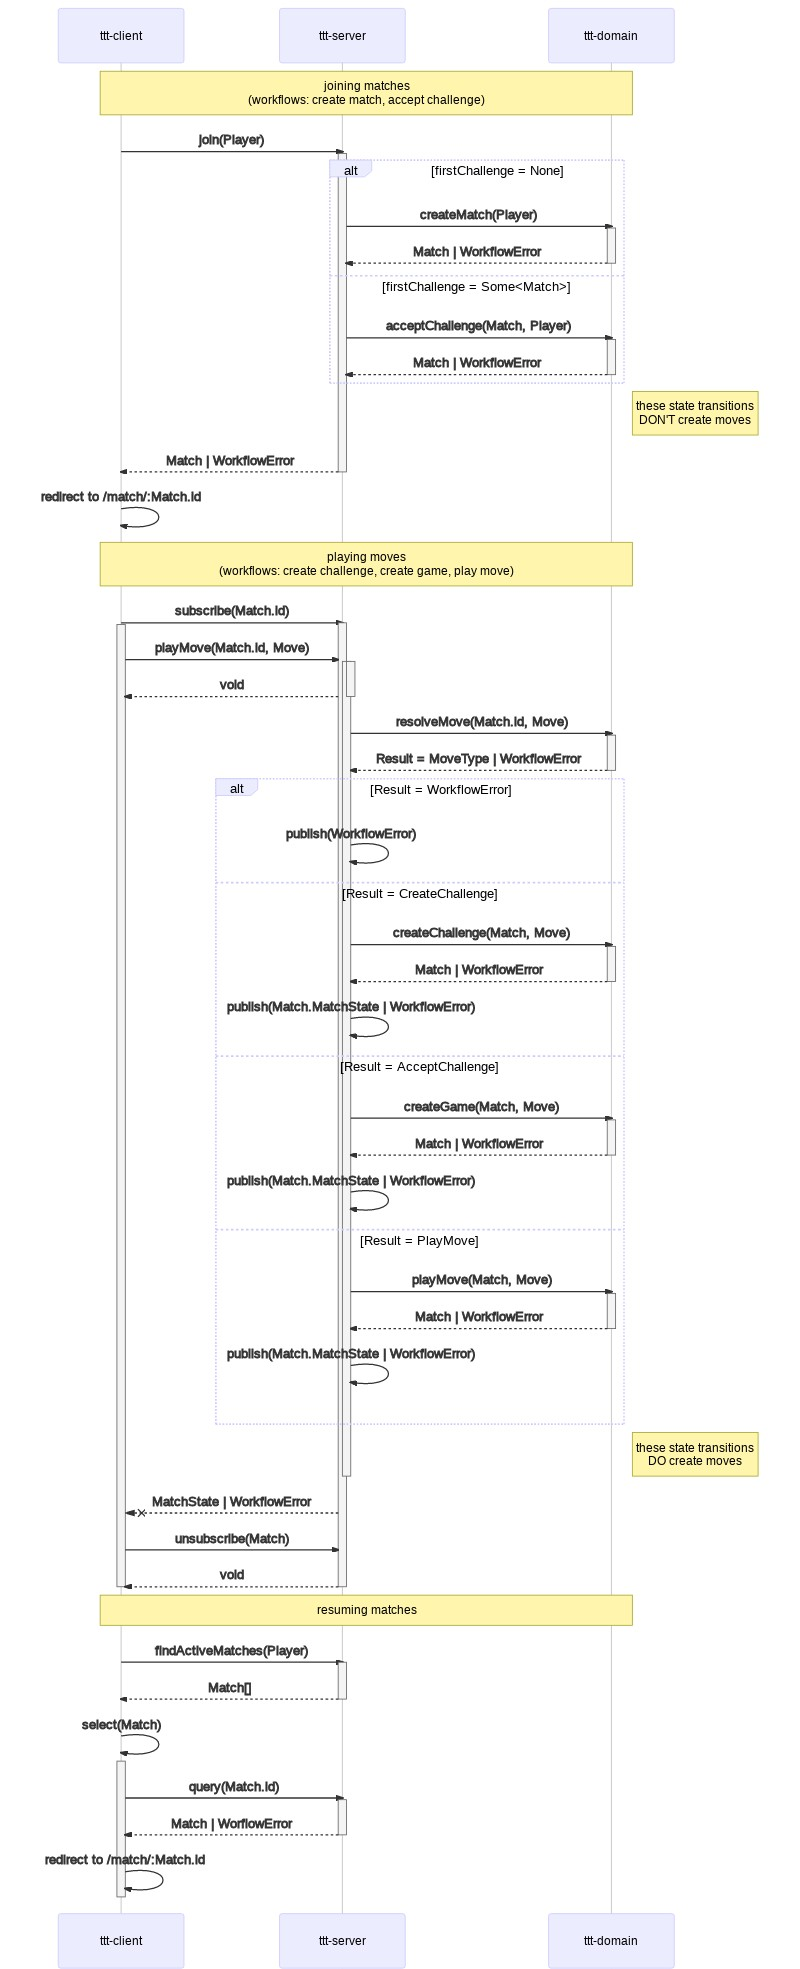
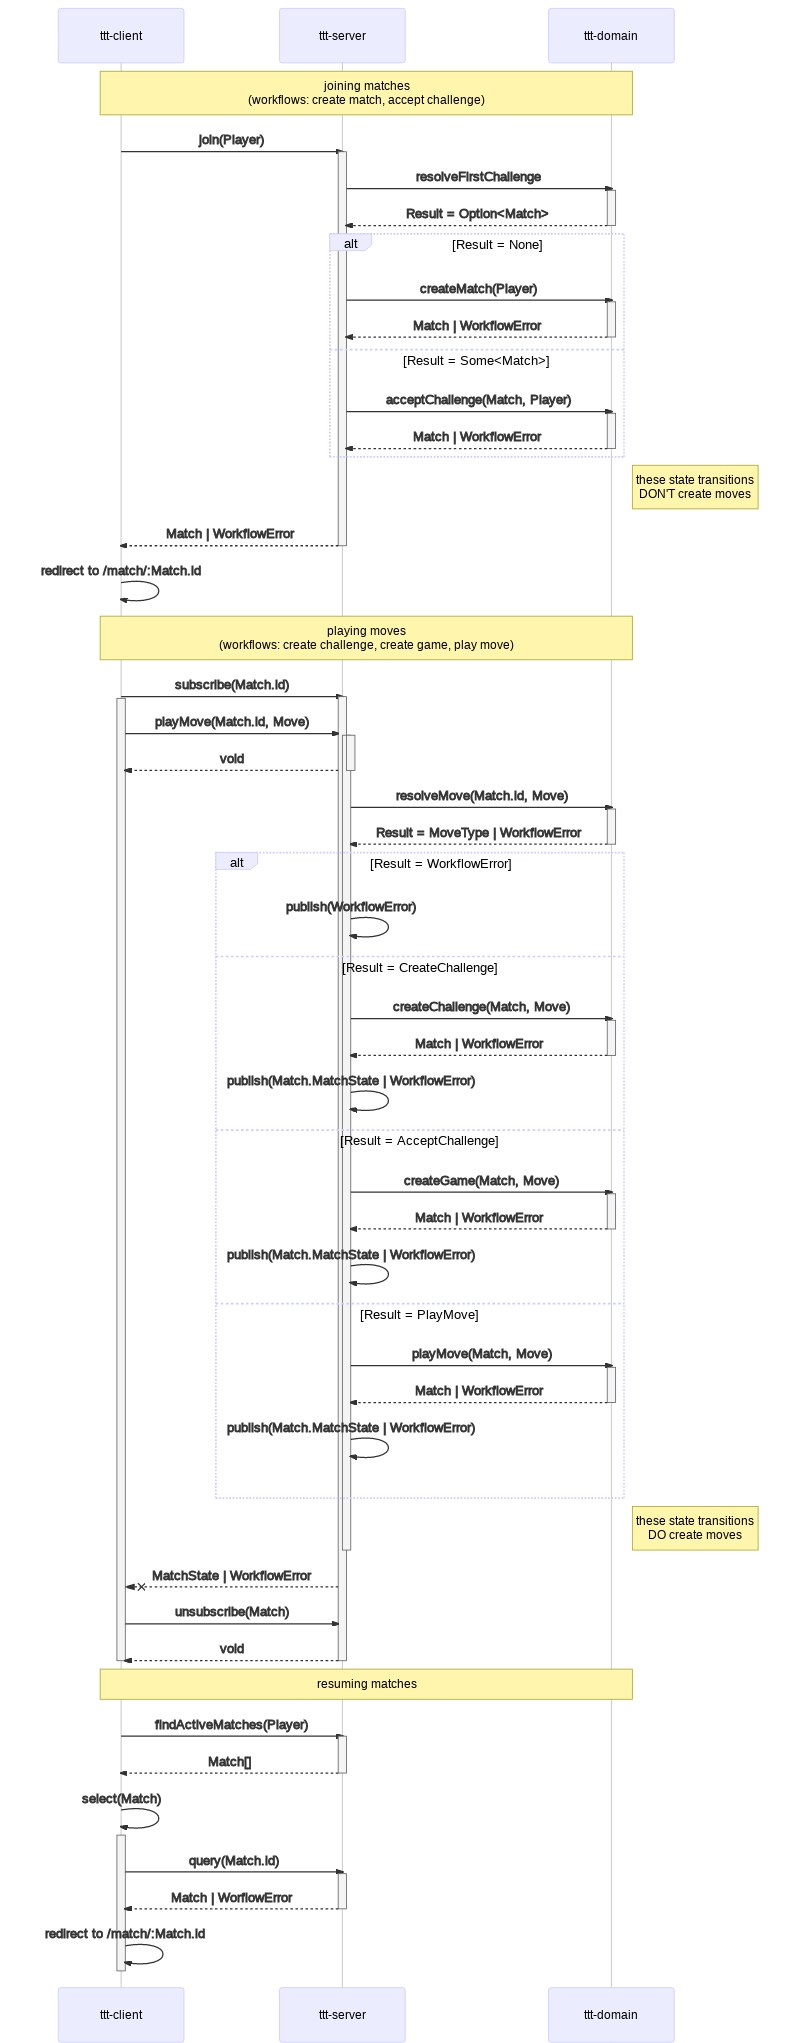
explicitly resolve first challenge

diff --git a/sequence-diagram.md b/sequence-diagram.md
@@ -8,11 +8,14 @@ sequenceDiagram
 
   c->>+s: join(Player)
 
-    alt firstChallenge = None
+    s->>+d: resolveFirstChallenge
+    d-->>-s: Result = Option<Match>
+
+    alt Result = None
       s->>+d: createMatch(Player)
       d-->>-s: Match | WorkflowError
 
-    else firstChallenge = Some<Match>
+    else Result = Some<Match>
       s->>+d: acceptChallenge(Match, Player)
 
       d-->>-s: Match | WorkflowError
